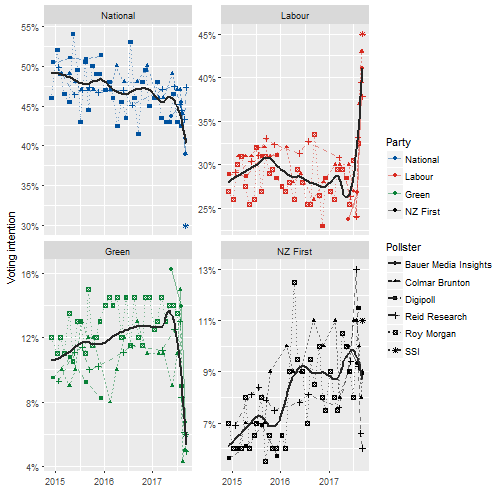
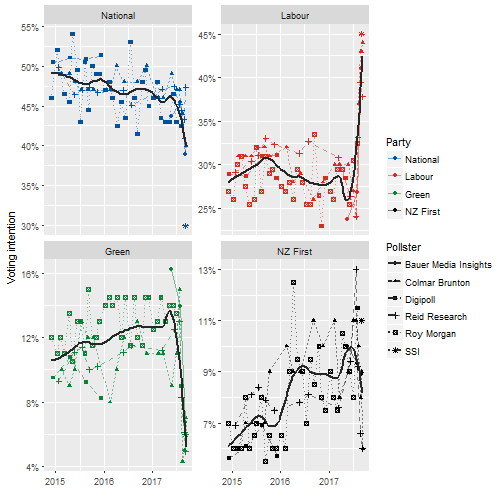
add another Colmar Brunton poll and some tweaks for dates still all being changed

diff --git a/README.md b/README.md
@@ -318,13 +318,13 @@ polls %>%
 ##            <chr>       <dbl>      <dbl>        <dbl>       <dbl>
 ##  1           ACT         0.6        0.6            1           1
 ##  2  Conservative         0.3        0.3            0           0
-##  3         Green         6.4        5.6            8           7
-##  4        Labour        39.4       41.3           48          50
+##  3         Green         6.5        5.8            8           7
+##  4        Labour        40.4       41.8           48          50
 ##  5          Mana         0.1        0.1            0           0
-##  6         Maori         1.3        1.4            2           2
-##  7      National        40.8       40.0           49          48
-##  8      NZ First         8.7        8.5           10          10
-##  9           TOP         1.8        1.8            2           2
+##  6         Maori         1.3        1.3            2           2
+##  7      National        40.7       39.9           49          48
+##  8      NZ First         8.1        8.0           10          10
+##  9           TOP         1.9        1.8            2           2
 ## 10 United Future         0.1        0.1            0           0
 ```
 
